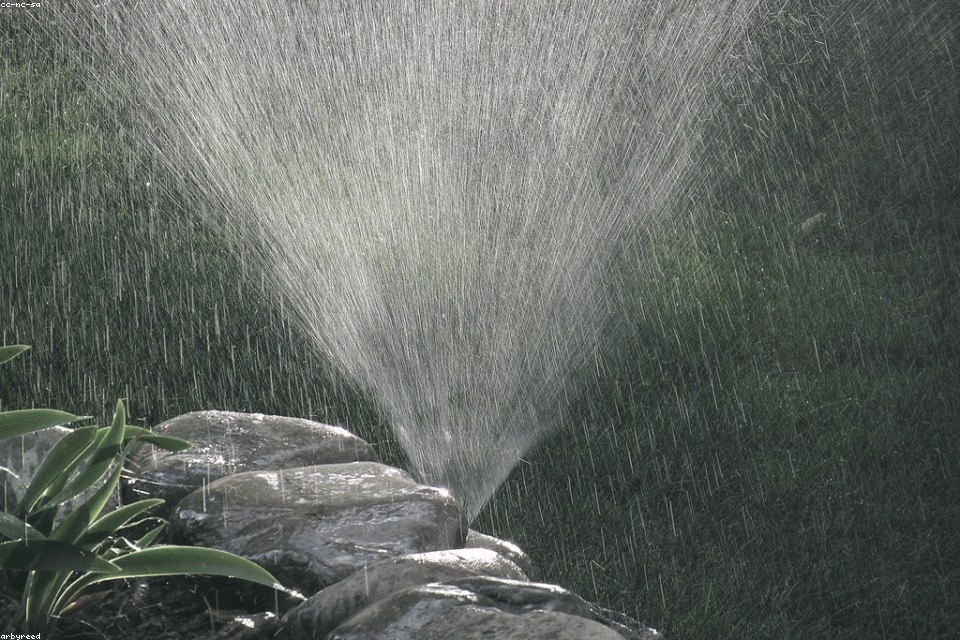
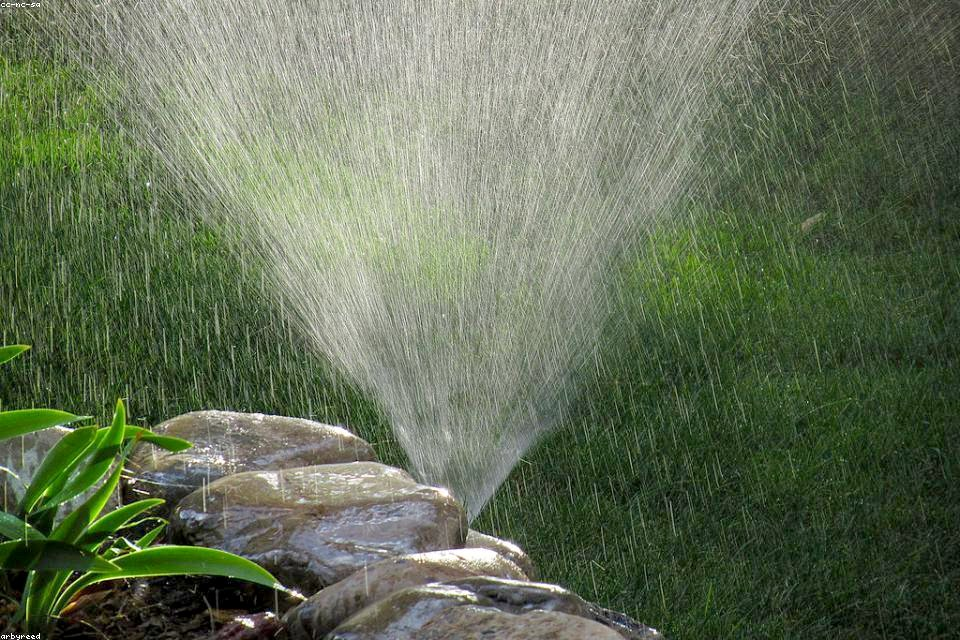
Карточки услуг снова яркие, приглушённые фоны вынесены в отдельные файлы

diff --git a/uslugi/poliv.html b/uslugi/poliv.html
@@ -77,7 +77,7 @@
 </div>
 
 <section class="hero-sub">
-  <div class="hero-media"><img src="../assets/img/svc-irrigation.jpg" alt="" aria-hidden="true" data-parallax="7"></div>
+  <div class="hero-media"><img src="../assets/img/hero-svc-irrigation.jpg" alt="" aria-hidden="true" data-parallax="7"></div>
   <div class="hero-shade"></div>
   <div class="wrap hero-inner">
     <div class="eyebrow mb-6" data-hero-seq>Услуга 03 · Полив · Свет</div>

diff --git a/uslugi/drenazh.html b/uslugi/drenazh.html
@@ -77,7 +77,7 @@
 </div>
 
 <section class="hero-sub">
-  <div class="hero-media"><img src="../assets/img/svc-drainage.jpg" alt="" aria-hidden="true" data-parallax="7"></div>
+  <div class="hero-media"><img src="../assets/img/hero-svc-drainage.jpg" alt="" aria-hidden="true" data-parallax="7"></div>
   <div class="hero-shade"></div>
   <div class="wrap hero-inner">
     <div class="eyebrow mb-6" data-hero-seq>Услуга 04 · Дренаж</div>

diff --git a/uslugi/plitka.html b/uslugi/plitka.html
@@ -77,7 +77,7 @@
 </div>
 
 <section class="hero-sub">
-  <div class="hero-media"><img src="../assets/img/svc-paving.jpg" alt="" aria-hidden="true" data-parallax="7"></div>
+  <div class="hero-media"><img src="../assets/img/hero-svc-paving.jpg" alt="" aria-hidden="true" data-parallax="7"></div>
   <div class="hero-shade"></div>
   <div class="wrap hero-inner">
     <div class="eyebrow mb-6" data-hero-seq>Услуга 01 · Мощение</div>

diff --git a/uslugi/gazon.html b/uslugi/gazon.html
@@ -77,7 +77,7 @@
 </div>
 
 <section class="hero-sub">
-  <div class="hero-media"><img src="../assets/img/svc-lawn.jpg" alt="" aria-hidden="true" data-parallax="7"></div>
+  <div class="hero-media"><img src="../assets/img/hero-svc-lawn.jpg" alt="" aria-hidden="true" data-parallax="7"></div>
   <div class="hero-shade"></div>
   <div class="wrap hero-inner">
     <div class="eyebrow mb-6" data-hero-seq>Услуга 02 · Газон</div>

diff --git a/PROGRESS.md b/PROGRESS.md
@@ -75,7 +75,7 @@
 - Первый экран «О компании» — видео `assets/video/hero-o-kompanii.mp4` (1920×1080, 7 с — исходник обрезан с 3-й секунды, 1,8 МБ) с мобильной версией `hero-o-kompanii-sm.mp4` 1280×720 (0,55 МБ) и постером `assets/img/real/hero-o-kompanii.webp`. Ролик сгенерирован нейросетью по заданию заказчика (панорама участка с автополивом и подсветкой) (01.10).
 - Первый экран «Услуги» — видео `assets/video/hero-uslugi.mp4` (1920×1080, 10 с, 2,1 МБ) + мобильная версия `hero-uslugi-sm.mp4` 1280×720 (0,6 МБ), постер `assets/img/real/hero-uslugi.webp`. Ролик сгенерирован нейросетью: лазерная линия нивелира на мощении (01.10).
 - Блок руководителя на главной (теперь 04): плашка цифр убрана, слова руководителя оформлены цитатой (`blockquote.quote-lead` — латунная линия слева, иконка кавычки). Нумерация секций главной вернулась к 02…07 (01.10).
-- Фоновые фото четырёх страниц услуг сведены к единому цветокору (дуотон #202826 → #C6C9C0, 24 % исходного цвета, сведение баланса каналов, средняя яркость 100): скрипт в истории коммита `5cf2475` (01.10).
+- Снимки услуг разведены по ролям: `assets/img/svc-*.jpg` — яркие карточки (autocontrast, гамма 0,8, насыщенность ×1,18), `assets/img/hero-svc-*.jpg` — приглушённые фоны первых экранов страниц услуг в едином ключе (дуотон #202826 → #C6C9C0, 24 % исходного цвета, средняя яркость 100). Один файл на две роли не годится: заказчику нужны яркие карточки и одинаковые фоны (01.10).
 - Второе место на главной пока пустует: блок «Было и стало» и пробный блок «Инженерия» (разрез основания) заказчику не подошли, оба сняты. Нумерация секций главной: 02…07 (01.10).
 - Все фото объектов в `assets/img/real/` (37 файлов, кроме постеров видео) прогнаны через подъём света и цвета: `autocontrast` cutoff (0.5, 0.1), насыщенность ×1.18, резкость ×1.08, яркость к средней 135 с защитой от пересветов. Исходники — в истории git до коммита `4a9c…`/`2ffcbee` (01.10).
 
